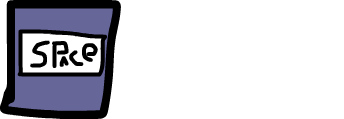
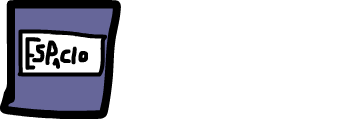
Portuguese Tutorial assets for sidebit1

Changed region(s): [[0.0581, 0.3025, 0.2907, 0.605]]

diff --git a/CHANGELOG.md b/CHANGELOG.md
@@ -1,5 +1,7 @@
 # Alpha
 ## 0.4.2a - 4/13/2025
+### Added
+- Portuguese Tutorial assets for sidebit1
 ### Fixed
 - Tutorial assets are visible in Sidebit 1 now
 ### Changed
